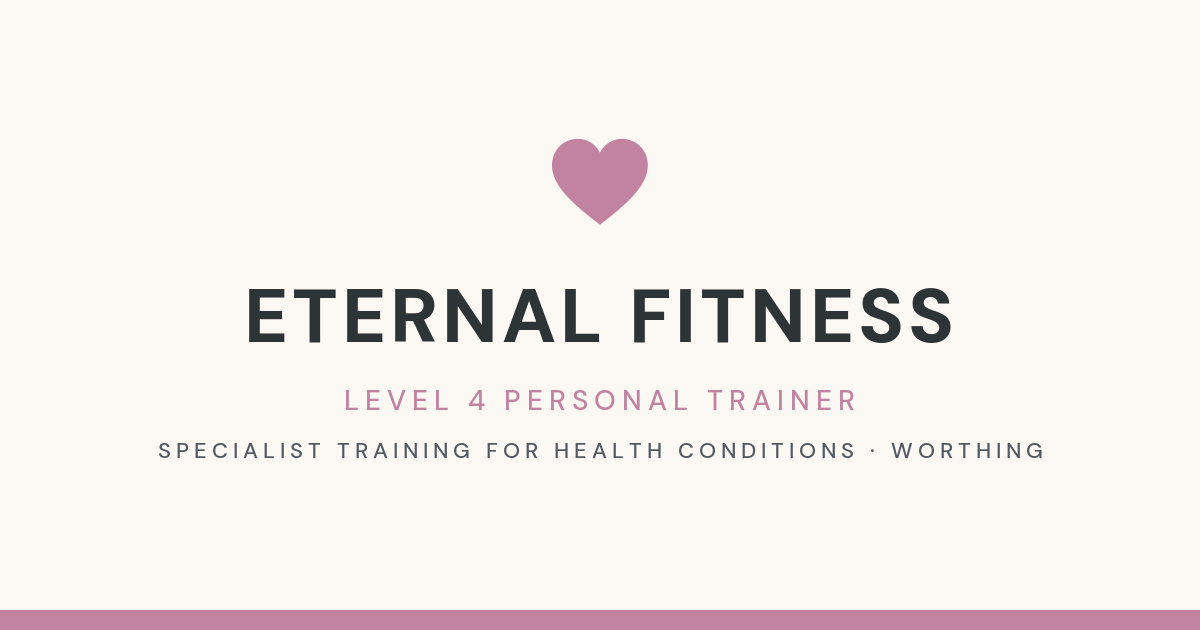
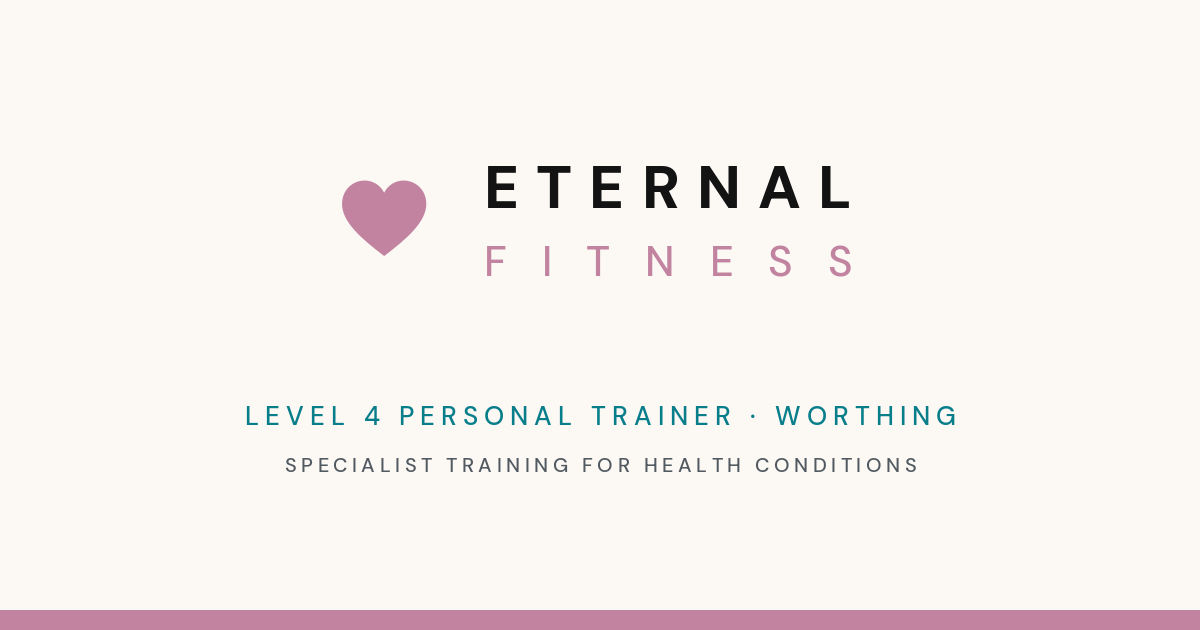
updates

diff --git a/components/EternalFitnessLogo.tsx b/components/EternalFitnessLogo.tsx
@@ -4,57 +4,67 @@ interface EternalFitnessLogoProps {
   size?: "sm" | "md" | "lg";
 }
 
+/**
+ * Eternal Fitness logo — final identity, July 2026.
+ *
+ * Solid rose heart beside the justified two-line wordmark: ETERNAL
+ * (DM Sans 800, ink/white) over FITNESS (DM Sans 500, rose), both
+ * words exactly equal in width. Letter-spacing values are derived
+ * from DM Sans font metrics (see EF_Brand_Guidelines_Jul2026.md) —
+ * do not adjust them by eye.
+ *
+ * Master files: Assets/Brand-Pack-Jul2026/svg/
+ */
 const EternalFitnessLogo = ({
   className = "",
   variant = "light",
   size = "md",
 }: EternalFitnessLogoProps) => {
   const isLight = variant === "light";
-  const eternalColor = isLight ? "#FFFFFF" : "#2D3436";
+  const wordmarkColor = isLight ? "#FFFFFF" : "#131313";
   const roseColor = "#C1839F";
 
   const sizeClasses = {
-    sm: "h-9 w-auto",
-    md: "h-12 w-auto",
-    lg: "h-16 w-auto",
+    sm: "h-6 w-auto",
+    md: "h-8 w-auto",
+    lg: "h-12 w-auto",
   };
 
   return (
     <svg
-      viewBox="0 0 200 124"
+      viewBox="0 0 142 40"
       fill="none"
       xmlns="http://www.w3.org/2000/svg"
       className={`${className} ${sizeClasses[size]}`}
       aria-label="Eternal Fitness"
       role="img"
     >
-      {/* The Emblem — chosen mark from Assets/logo-options-jul2026/ef-logo-d-emblem.svg:
-          a single rose petal above a stacked, wide-tracked wordmark. */}
+      {/* The solid rose heart — the brand's one mark */}
       <path
         d="M18 29.5 C10.5 23.8 4.5 18.5 4.5 12.8 C4.5 8.3 7.9 5.3 11.8 5.3 C14.4 5.3 16.8 6.8 18 9.2 C19.2 6.8 21.6 5.3 24.2 5.3 C28.1 5.3 31.5 8.3 31.5 12.8 C31.5 18.5 25.5 23.8 18 29.5 Z"
         fill={roseColor}
-        transform="translate(82,4)"
+        transform="translate(3,6) scale(0.78)"
       />
+
+      {/* Justified word block — ETERNAL and FITNESS are equal width */}
       <text
-        x="103"
-        y="78"
-        textAnchor="middle"
-        fontFamily="var(--font-dm-sans), 'Helvetica Neue', Helvetica, Arial, sans-serif"
+        x="42"
+        y="17"
+        fontFamily="var(--font-dm-sans), 'DM Sans', 'Helvetica Neue', Arial, sans-serif"
         fontWeight="800"
-        fontSize="21"
-        letterSpacing="7"
-        fill={eternalColor}
+        fontSize="15"
+        letterSpacing="4.3"
+        fill={wordmarkColor}
       >
         ETERNAL
       </text>
       <text
-        x="103"
-        y="102"
-        textAnchor="middle"
-        fontFamily="var(--font-dm-sans), 'Helvetica Neue', Helvetica, Arial, sans-serif"
+        x="42"
+        y="34"
+        fontFamily="var(--font-dm-sans), 'DM Sans', 'Helvetica Neue', Arial, sans-serif"
         fontWeight="500"
-        fontSize="12"
-        letterSpacing="7.5"
+        fontSize="10.5"
+        letterSpacing="8.67"
         fill={roseColor}
       >
         FITNESS